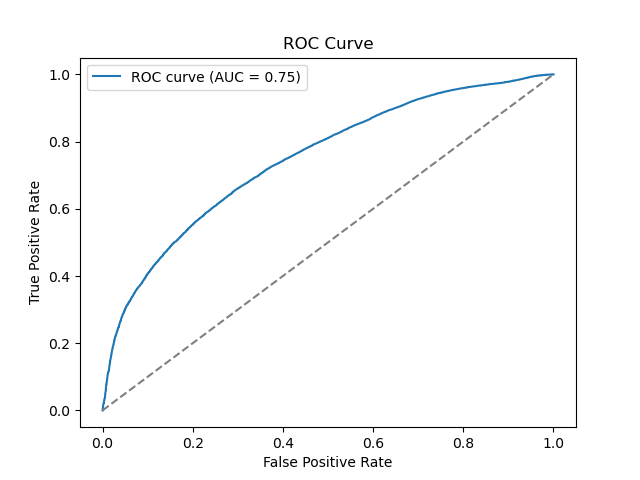
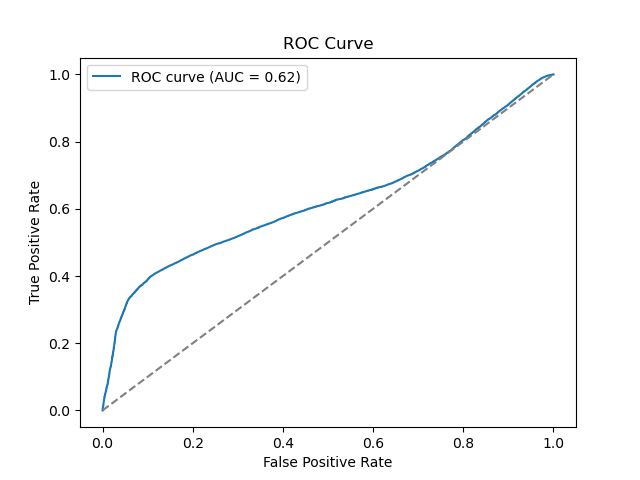
v1 residual und classifier

diff --git a/models/morning_stars_v1/beta/v1_mha_1024_res.py b/models/morning_stars_v1/beta/v1_mha_1024_res.py
@@ -1,0 +1,137 @@
+import torch
+import torch.nn as nn
+
+class ResidualBlock(nn.Module):
+    def __init__(self, hidden_dim, dropout):
+        super(ResidualBlock, self).__init__()
+        self.block = nn.Sequential(
+            nn.BatchNorm1d(hidden_dim),
+            nn.ReLU(),
+            nn.Linear(hidden_dim, hidden_dim),
+            nn.BatchNorm1d(hidden_dim),
+            nn.ReLU(),
+            nn.Dropout(dropout),
+            nn.Linear(hidden_dim, hidden_dim)
+        )
+
+    def forward(self, x):
+        return x + self.block(x)
+
+class Classifier(nn.Module):
+    def __init__(self, input_dim, hidden_dim, dropout):
+        super(Classifier, self).__init__()
+        self.model = nn.Sequential(
+            nn.Linear(input_dim, hidden_dim),
+            nn.BatchNorm1d(hidden_dim),
+            nn.ReLU(),
+            nn.Dropout(dropout),
+            ResidualBlock(hidden_dim, dropout),
+            nn.Linear(hidden_dim, 1)
+        )
+
+    def forward(self, x):
+        return self.model(x)
+
+class AttentionBlock(nn.Module):
+    def __init__(self, embed_dim, num_heads, dropout=0.1):
+        super(AttentionBlock, self).__init__()
+        self.attn = nn.MultiheadAttention(embed_dim, num_heads, dropout=dropout, batch_first=True)
+        self.norm1 = nn.LayerNorm(embed_dim)
+        self.dropout1 = nn.Dropout(dropout)
+        self.ff = nn.Sequential(
+            nn.Linear(embed_dim, embed_dim * 4),
+            nn.ReLU(),
+            nn.Dropout(dropout),
+            nn.Linear(embed_dim * 4, embed_dim)
+        )
+        self.norm2 = nn.LayerNorm(embed_dim)
+        self.dropout2 = nn.Dropout(dropout)
+
+    def forward(self, x, key_padding_mask=None):
+        attn_output, _ = self.attn(x, x, x, key_padding_mask=key_padding_mask)
+        x = self.norm1(x + self.dropout1(attn_output))
+        ff_output = self.ff(x)
+        x = self.norm2(x + self.dropout2(ff_output))
+        return x
+
+class LazyTCR_Epitope_Dataset(torch.utils.data.Dataset):
+    def __init__(self, data_frame, tcr_embeddings, epitope_embeddings):
+        """
+        Args:
+            data_frame (DataFrame): The DataFrame containing sample data.
+            tcr_embeddings (h5py.File): HDF5 file containing TCR embeddings.
+            epitope_embeddings (h5py.File): HDF5 file containing epitope embeddings.
+        """
+        self.data_frame = data_frame
+        self.tcr_embeddings = tcr_embeddings
+        self.epitope_embeddings = epitope_embeddings
+
+    def __len__(self):
+        return len(self.data_frame)
+
+    def __getitem__(self, idx):
+        sample = self.data_frame.iloc[idx]
+        tcr_id = sample['TRB_CDR3']  # Column name for TCR IDs
+        epitope_id = sample['Epitope']  # Column name for epitope IDs
+        label = sample['Binding']  # Target label
+
+        # Access embeddings lazily
+        tcr_embedding = self.tcr_embeddings[tcr_id][:]
+        epitope_embedding = self.epitope_embeddings[epitope_id][:]
+
+        return (
+            torch.tensor(tcr_embedding, dtype=torch.float32),
+            torch.tensor(epitope_embedding, dtype=torch.float32),
+            torch.tensor(label, dtype=torch.float32),
+        )
+
+class TCR_Epitope_Transformer(nn.Module):
+    def __init__(self, embed_dim=128, num_heads=4, num_layers=2, max_tcr_length=20, max_epitope_length=15, dropout=0.1, classifier_hidden_dim=64):
+        super(TCR_Epitope_Transformer, self).__init__()
+        self.embed_dim = embed_dim
+        self.tcr_embedding = nn.Linear(1024, embed_dim)
+        self.epitope_embedding = nn.Linear(1024, embed_dim)
+
+        self.tcr_bn = nn.BatchNorm1d(max_tcr_length)
+        self.epitope_bn = nn.BatchNorm1d(max_epitope_length)
+
+        self.tcr_positional_encoding = nn.Parameter(torch.randn(1, max_tcr_length, embed_dim))
+        self.epitope_positional_encoding = nn.Parameter(torch.randn(1, max_epitope_length, embed_dim))
+
+        self.transformer_layers = nn.ModuleList([
+            AttentionBlock(embed_dim, num_heads, dropout) for _ in range(num_layers)
+        ])
+
+        self.classifier_input_dim = embed_dim * 2  # For concatenated mean+max pooling
+        self.classifier = Classifier(self.classifier_input_dim, classifier_hidden_dim, dropout)
+
+    def forward(self, tcr, epitope):
+        tcr_emb = self.tcr_embedding(tcr)
+        epitope_emb = self.epitope_embedding(epitope)
+
+        # Optional: normalize across sequence
+        tcr_emb = self.tcr_bn(tcr_emb)
+        epitope_emb = self.epitope_bn(epitope_emb)
+
+        # Create masks
+        tcr_mask = (tcr.sum(dim=-1) == 0)
+        epitope_mask = (epitope.sum(dim=-1) == 0)
+
+        # Add positional encoding
+        tcr_emb += self.tcr_positional_encoding[:, :tcr_emb.size(1), :]
+        epitope_emb += self.epitope_positional_encoding[:, :epitope_emb.size(1), :]
+
+        # Concatenate sequence and mask
+        combined = torch.cat([tcr_emb, epitope_emb], dim=1)
+        key_padding_mask = torch.cat([tcr_mask, epitope_mask], dim=1)
+
+        for layer in self.transformer_layers:
+            combined = layer(combined, key_padding_mask=key_padding_mask)
+
+        # Combine mean and max pooling
+        pooled_mean = combined.mean(dim=1)
+        pooled_max, _ = combined.max(dim=1)
+        pooled = torch.cat([pooled_mean, pooled_max], dim=1)
+
+        output = self.classifier(pooled).squeeze(1)
+        return output

diff --git a/models/morning_stars_v1/beta/v1_mha_1024_class.py b/models/morning_stars_v1/beta/v1_mha_1024_class.py
@@ -1,0 +1,101 @@
+import torch
+import torch.nn as nn
+
+class Classifier(nn.Module):
+    def __init__(self, input_dim, hidden_dim, dropout):
+        super(Classifier, self).__init__()
+        self.model = nn.Sequential(
+            nn.Linear(input_dim, hidden_dim),
+            nn.ReLU(),
+            nn.Dropout(dropout),
+            nn.Linear(hidden_dim, 1)
+        )
+
+    def forward(self, x):
+        return self.model(x)
+
+class AttentionBlock(nn.Module):
+    def __init__(self, embed_dim, num_heads, dropout=0.1):
+        super(AttentionBlock, self).__init__()
+        self.attn = nn.MultiheadAttention(embed_dim, num_heads, dropout=dropout, batch_first=True)
+        self.norm1 = nn.LayerNorm(embed_dim)
+        self.dropout1 = nn.Dropout(dropout)
+        self.ff = nn.Sequential(
+            nn.Linear(embed_dim, embed_dim * 4),
+            nn.ReLU(),
+            nn.Dropout(dropout),
+            nn.Linear(embed_dim * 4, embed_dim)
+        )
+        self.norm2 = nn.LayerNorm(embed_dim)
+        self.dropout2 = nn.Dropout(dropout)
+
+    def forward(self, x, key_padding_mask=None):
+        attn_output, _ = self.attn(x, x, x, key_padding_mask=key_padding_mask)
+        x = self.norm1(x + self.dropout1(attn_output))
+        ff_output = self.ff(x)
+        x = self.norm2(x + self.dropout2(ff_output))
+        return x
+
+class LazyTCR_Epitope_Dataset(torch.utils.data.Dataset):
+    def __init__(self, data_frame, tcr_embeddings, epitope_embeddings):
+        self.data_frame = data_frame
+        self.tcr_embeddings = tcr_embeddings
+        self.epitope_embeddings = epitope_embeddings
+
+    def __len__(self):
+        return len(self.data_frame)
+
+    def __getitem__(self, idx):
+        sample = self.data_frame.iloc[idx]
+        tcr_id = sample['TRB_CDR3']
+        epitope_id = sample['Epitope']
+        label = sample['Binding']
+
+        tcr_embedding = self.tcr_embeddings[tcr_id][:]
+        epitope_embedding = self.epitope_embeddings[epitope_id][:]
+
+        return (
+            torch.tensor(tcr_embedding, dtype=torch.float32),
+            torch.tensor(epitope_embedding, dtype=torch.float32),
+            torch.tensor(label, dtype=torch.float32),
+        )
+
+class TCR_Epitope_Transformer(nn.Module):
+    def __init__(self, embed_dim=128, num_heads=4, num_layers=2, max_tcr_length=20, max_epitope_length=15, dropout=0.1, classifier_hidden_dim=64):
+        super(TCR_Epitope_Transformer, self).__init__()
+        self.embed_dim = embed_dim
+        self.tcr_embedding = nn.Linear(1024, embed_dim)
+        self.epitope_embedding = nn.Linear(1024, embed_dim)
+
+        self.tcr_positional_encoding = nn.Parameter(torch.randn(1, max_tcr_length, embed_dim))
+        self.epitope_positional_encoding = nn.Parameter(torch.randn(1, max_epitope_length, embed_dim))
+
+        self.transformer_layers = nn.ModuleList([
+            AttentionBlock(embed_dim, num_heads, dropout) for _ in range(num_layers)
+        ])
+
+        self.classifier_input_dim = embed_dim * 2  # mean + max
+        self.classifier = Classifier(self.classifier_input_dim, classifier_hidden_dim, dropout)
+
+    def forward(self, tcr, epitope):
+        tcr_emb = self.tcr_embedding(tcr)
+        epitope_emb = self.epitope_embedding(epitope)
+
+        tcr_mask = (tcr.sum(dim=-1) == 0)
+        epitope_mask = (epitope.sum(dim=-1) == 0)
+
+        tcr_emb += self.tcr_positional_encoding[:, :tcr_emb.size(1), :]
+        epitope_emb += self.epitope_positional_encoding[:, :epitope_emb.size(1), :]
+
+        combined = torch.cat([tcr_emb, epitope_emb], dim=1)
+        key_padding_mask = torch.cat([tcr_mask, epitope_mask], dim=1)
+
+        for layer in self.transformer_layers:
+            combined = layer(combined, key_padding_mask=key_padding_mask)
+
+        pooled_mean = combined.mean(dim=1)
+        pooled_max, _ = combined.max(dim=1)
+        pooled = torch.cat([pooled_mean, pooled_max], dim=1)
+
+        output = self.classifier(pooled).squeeze(1)
+        return output

diff --git a/models_scripts/v1_mha/train-server2-bb-Copy1.py b/models_scripts/v1_mha/train-server2-bb-Copy1.py
@@ -19,7 +19,7 @@ import random
 
 sys.path.append(os.path.abspath(os.path.join(os.path.dirname(__file__), '../../')))
 # for use with subsets
-from models.morning_stars_v1.beta.v1_mha_1024_res import TCR_Epitope_Transformer, LazyTCR_Epitope_Dataset #, TCR_Epitope_Dataset
+from models.morning_stars_v1.beta.v1_mha_1024_class import TCR_Epitope_Transformer, LazyTCR_Epitope_Dataset #, TCR_Epitope_Dataset
 
 sys.path.append(os.path.abspath(os.path.join(os.path.dirname(__file__), '../')))
 from utils.arg_parser import * # pars_args

diff --git a/models/morning_stars_v1/beta/v1_mha_1024.py b/models/morning_stars_v1/beta/v1_mha_1024.py
@@ -1,6 +1,7 @@
 import torch
 import torch.nn as nn
 from torch.utils.data import Dataset, DataLoader
+import h5py
 
 class AttentionBlock(nn.Module):
     def __init__(self, embed_dim, num_heads, dropout=0.1):
